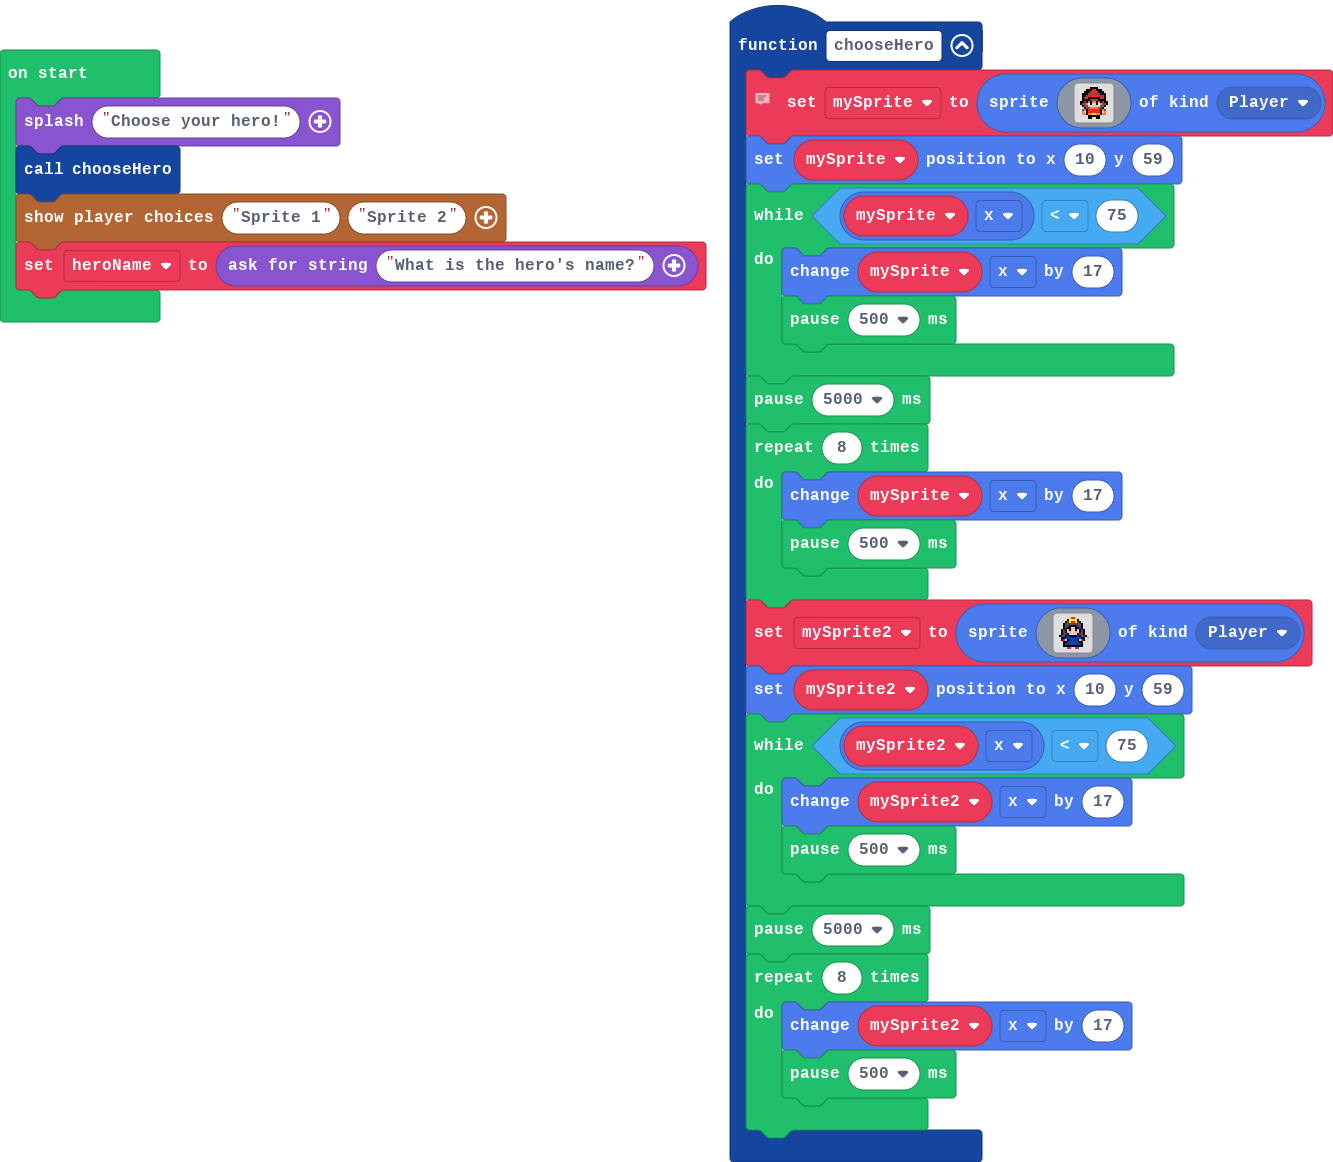
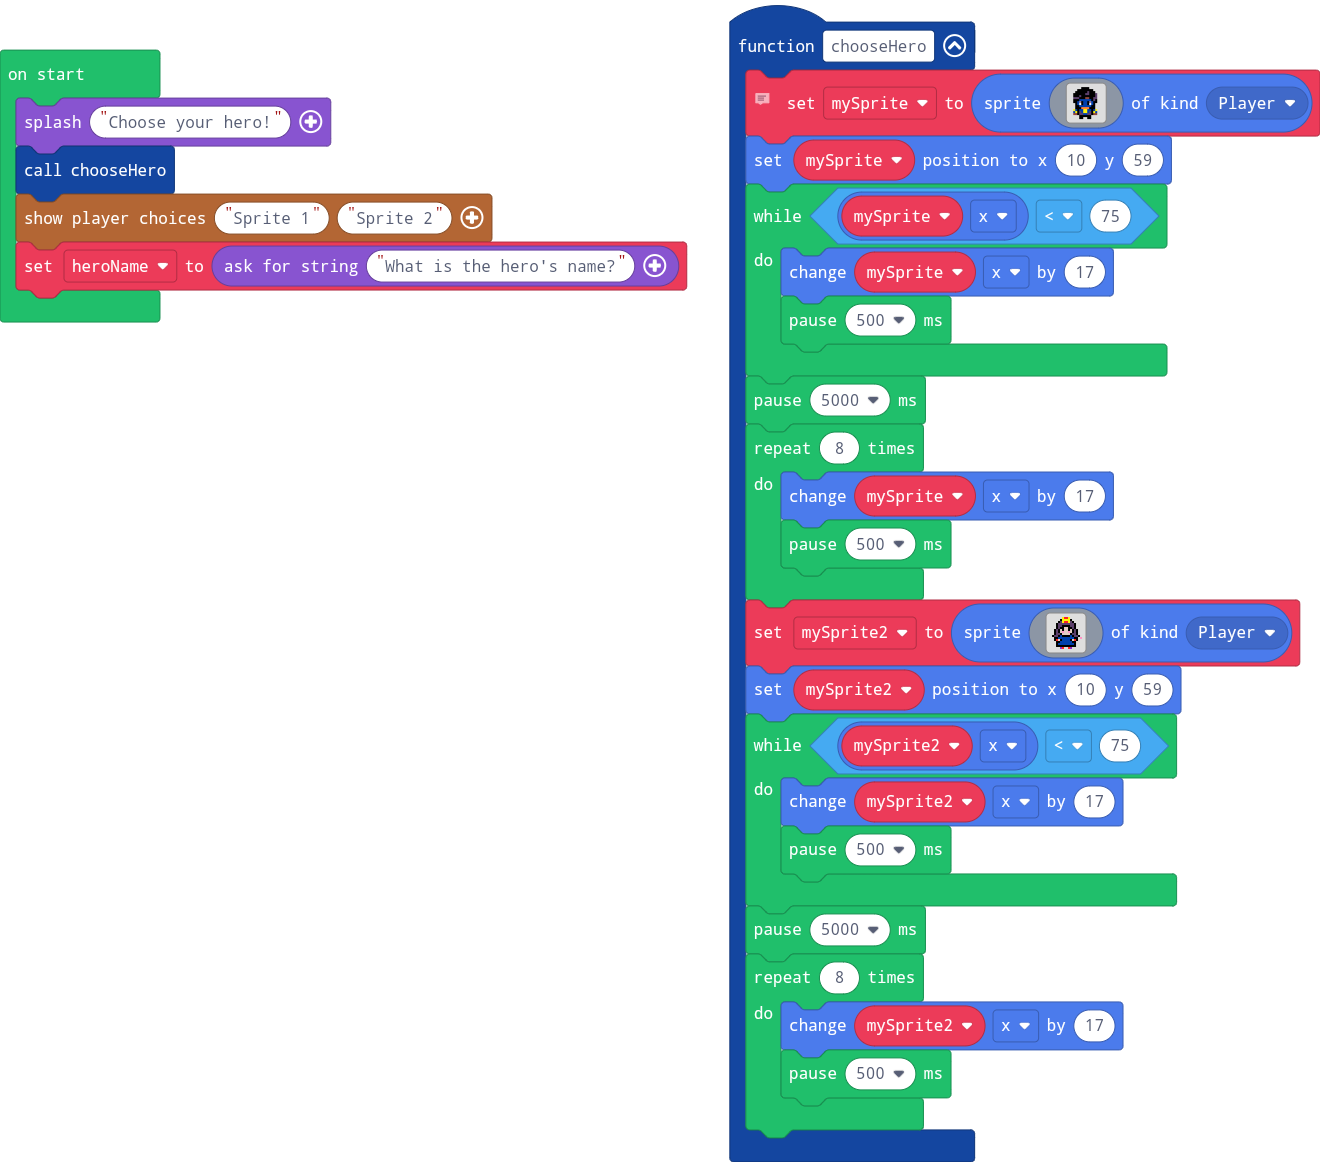
Update main.blocks, main.ts

Changed region(s): [[0.0311, 0.0, 0.9939, 1.0]]

diff --git a/main.ts b/main.ts
@@ -1,22 +1,22 @@
 function chooseHero () {
     // change sprite later to agree with Daisy 
     mySprite = sprites.create(img`
-        . . . . . . f f f f . . . . . . 
-        . . . . f f f 2 2 f f f . . . . 
-        . . . f f f 2 2 2 2 f f f . . . 
-        . . f f f e e e e e e f f f . . 
-        . . f f e 2 2 2 2 2 2 e e f . . 
-        . . f e 2 f f f f f f 2 e f . . 
-        . . f f f f e e e e f f f f . . 
-        . f f e f b f 4 4 f b f e f f . 
-        . f e e 4 1 f d d f 1 4 e e f . 
-        . . f e e d d d d d d e e f . . 
-        . . . f e e 4 4 4 4 e e f . . . 
-        . . e 4 f 2 2 2 2 2 2 f 4 e . . 
-        . . 4 d f 2 2 2 2 2 2 f d 4 . . 
-        . . 4 4 f 4 4 5 5 4 4 f 4 4 . . 
-        . . . . . f f f f f f . . . . . 
-        . . . . . f f . . f f . . . . . 
+        . . . . f f f f . . . . . 
+        . . f f f f f f f f . . . 
+        . f f f f f f c f f f . . 
+        f f f f f f c c f f f c . 
+        f f f c f f f f f f f c . 
+        c c c f f f e e f f c c . 
+        f f f 8 8 8 8 8 8 f c f . 
+        f f 8 b f 8 8 f b 8 f f . 
+        . f 8 1 f 8 8 f 1 8 f . . 
+        . f f 8 8 8 8 8 8 f f . . 
+        . f f f 4 4 4 4 f f f . . 
+        5 8 f 8 8 5 5 8 8 f 8 5 . 
+        8 5 f c 8 5 5 8 c f 5 8 . 
+        e e f c c 8 8 c c f e e . 
+        . . . f f f f f f . . . . 
+        . . . f f . . f f . . . . 
         `, SpriteKind.Player)
     mySprite.setPosition(10, 59)
     while (mySprite.x < 75) {
